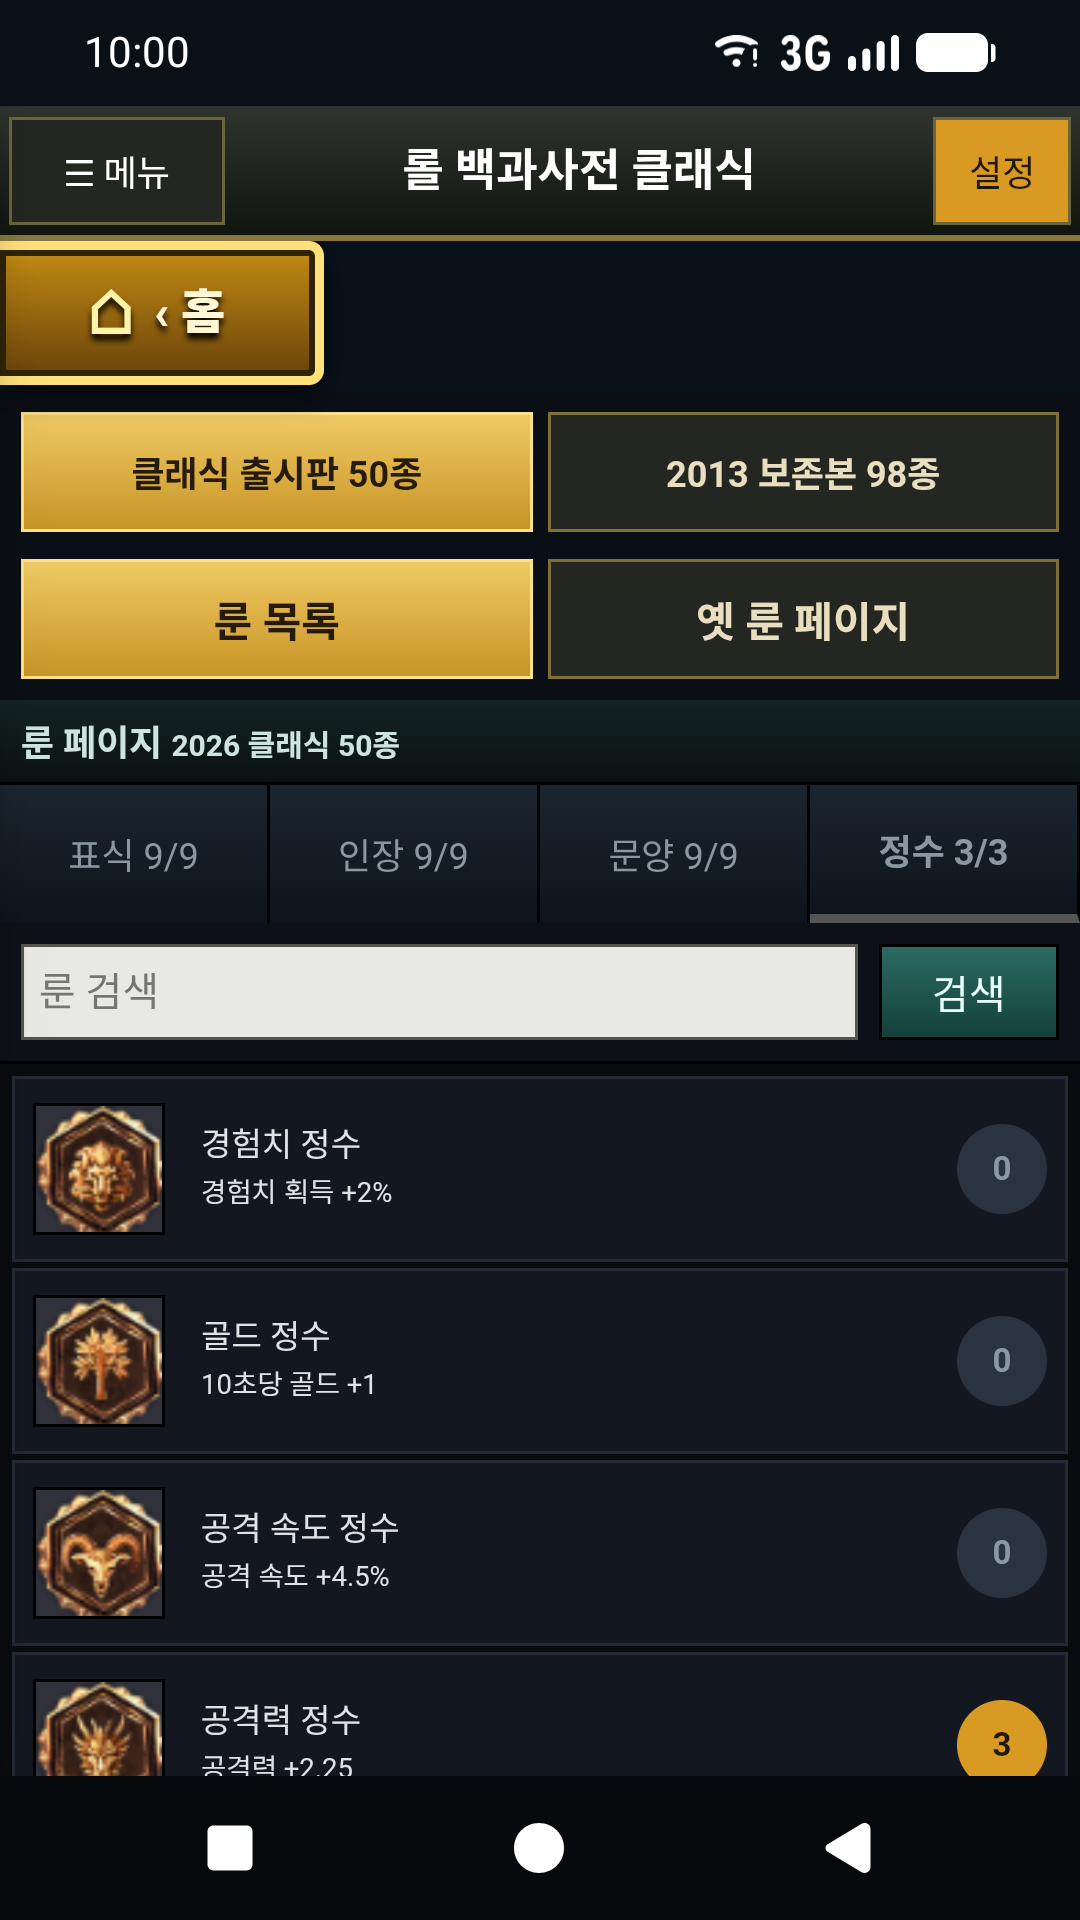
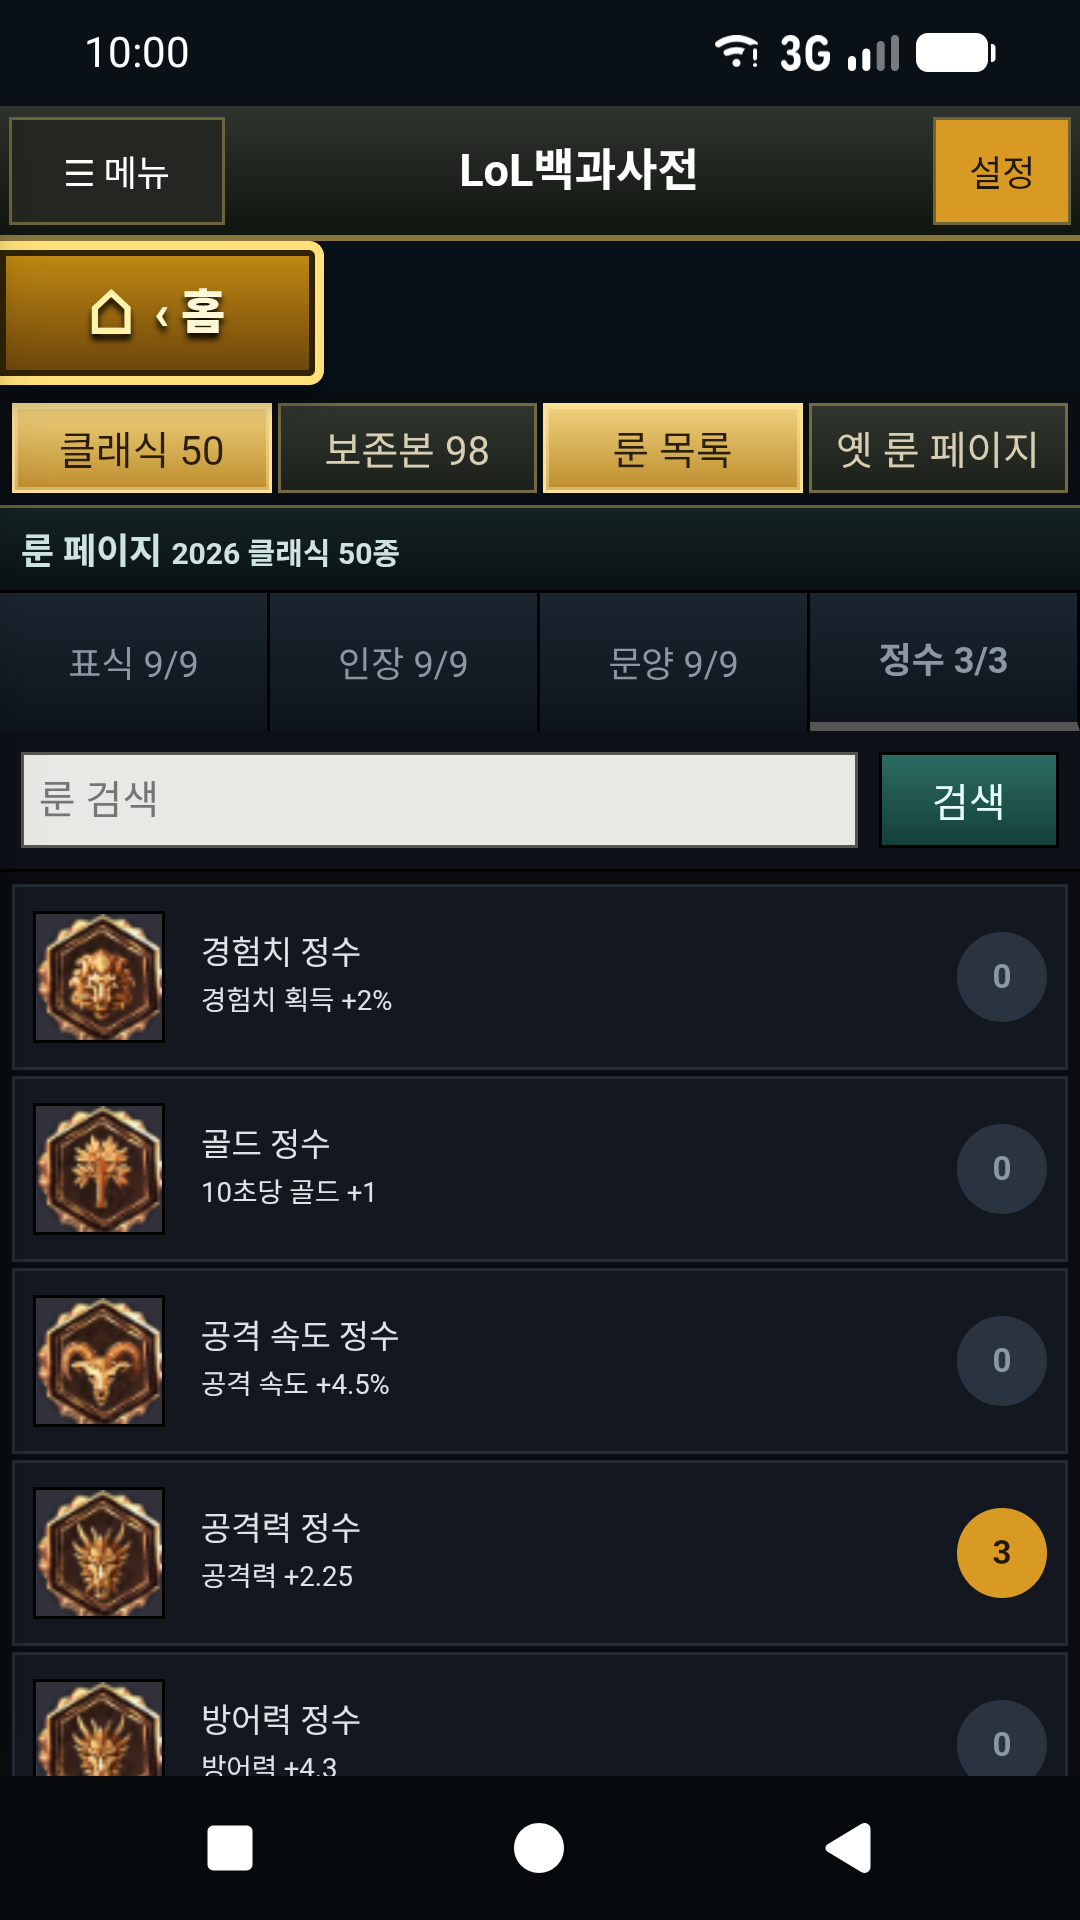
Publish 20-page rune client release evidence

diff --git a/index.html b/index.html
@@ -42,7 +42,7 @@
     <section class="hero">
       <div class="hero-copy">
         <a class="official-banner" href="https://www.leagueoflegends.com/ko-kr/classic/" rel="noreferrer">
-          Riot Games 공식 안내 · LoL 클래식 2026년 7월 30일 시작 예정
+          Riot Games 공식 안내 · LoL 클래식 2026년 7월 30일 시작
           <span aria-hidden="true">↗</span>
         </a>
         <p class="eyebrow">Android · 오프라인 · 비공식 아카이브</p>
@@ -90,7 +90,7 @@
         </div>
         <p>
           컴팩트 홈의 기기 내 통합 검색과 보존 소식부터 챔피언 상세, 아이템 조합식,
-          특성 투자, 5개 룬 페이지 편집까지 동작하는 오프라인 참고 앱입니다.
+          특성 투자, 20개 룬 페이지 편집까지 동작하는 오프라인 참고 앱입니다.
         </p>
       </div>
 
@@ -118,7 +118,7 @@
         <article class="feature-card">
           <span class="feature-number">05</span>
           <h3>옛 룬 클라이언트</h3>
-          <p>룬 보관함·30개 소켓 보드·통계를 3열로 구성하고, 9/9/9/3 편성을 5개 룬 페이지에 기기 내부 저장·초기화할 수 있습니다.</p>
+          <p>검색 가능한 실제 룬 보관함·30개 소켓 보드·통계를 3열로 구성하고, 9/9/9/3 편성을 20개 룬 페이지에 기기 내부 저장·초기화할 수 있습니다.</p>
         </article>
       </div>
     </section>
@@ -130,8 +130,9 @@
           <h2>출시 자료와 실제 앱을 함께 확인했습니다.</h2>
         </div>
         <p>
-          최종 캡처에 사용한 동일 빌드로 컴팩트 홈·기기 내 검색, 정확한 60명 초상,
-          5페이지 룬 클라이언트, 화면 이동과 오프라인 경계를 자동·수동으로 점검했습니다.
+          최종 캡처에 사용한 동일 빌드로 360·320px 컴팩트 홈과 기기 내 검색,
+          정확한 60명 초상, 20페이지 룬 클라이언트, 화면 이동과 오프라인 경계를
+          자동·수동으로 점검했습니다.
         </p>
       </div>
 
@@ -142,9 +143,9 @@
 
       <div class="qa-grid">
         <article class="qa-card">
-          <strong>39 / 39</strong>
+          <strong>40 / 40</strong>
           <span>Android 런타임 점검 통과</span>
-          <p>홈 검색·보존 소식, 60명 참조 초상, 30소켓·5페이지 룬 저장·초기화를 포함해 확인했습니다.</p>
+          <p>홈 검색·보존 소식, 60명 참조 초상, 30소켓·20페이지 룬 저장·초기화를 포함해 확인했습니다.</p>
         </article>
         <article class="qa-card">
           <strong>18 / 18</strong>
@@ -157,9 +158,9 @@
           <p>모두 1080×1920 RGB/sRGB PNG로 동일 빌드에서 캡처했습니다.</p>
         </article>
         <article class="qa-card">
-          <strong>360dp</strong>
+          <strong>320–360px</strong>
           <span>좁은 화면 회귀 점검</span>
-          <p>컴팩트 홈·5열 챔피언 초상·3열 룬 클라이언트와 아이템 좌·우 스크롤을 점검했습니다.</p>
+          <p>두 폭에서 컴팩트 홈·5열 초상·3열 룬과 아이템 좌·우 독립 스크롤의 겹침·가로 넘침이 없음을 확인했습니다.</p>
         </article>
       </div>
 
@@ -230,7 +231,7 @@
         </figure>
         <figure>
           <img src="assets/phone-08-rune-page.png" alt="룬 보관함·30개 소켓·통계가 3열로 배치된 옛 룬 페이지 화면" loading="lazy">
-          <figcaption><strong>옛 룬 클라이언트</strong><span>3열 · 30소켓 · 5페이지 저장</span></figcaption>
+          <figcaption><strong>옛 룬 클라이언트</strong><span>3열 · 30소켓 · 20페이지 저장</span></figcaption>
         </figure>
       </div>
     </section>
@@ -252,7 +253,7 @@
           <span class="status-badge complete">완료</span>
           <h3>앱과 배포 자료</h3>
           <ul class="check-list">
-            <li>기능 구현과 360dp 모바일 UI 회귀 수정</li>
+            <li>기능 구현과 320–360 CSS px 모바일 UI 회귀 수정</li>
             <li>Android Lint·JavaScript 구문·릴리스 정적 검사</li>
             <li>디버그 APK·번들 빌드와 에뮬레이터 런타임 점검</li>
             <li>스토어 설명·개인정보·Data safety·출시 체크리스트 초안</li>
@@ -339,7 +340,7 @@
         shared community features are roadmap items, not current services.
       </p>
       <p>
-        <strong>Working Android prototype.</strong>
+        <strong>Working Android release candidate.</strong>
         <strong>No production API key.</strong>
         Online accounts, Riot API integration, and shared community services are
         <strong>Roadmap, not current functionality.</strong>

diff --git a/README.md b/README.md
@@ -29,12 +29,13 @@
 - 컴팩트 홈에서 챔피언·아이템·룬·용어를 기기 안에서 통합 검색하고 보존 새소식·경기정보·기기 내 커뮤니티를 탐색
 - 클래식 클라이언트 참조 화면과 정확히 대조한 60명의 표시 순서·초상과 115명 역사 아카이브
 - 190개 아이템, 56개 특성, 16개 소환사 주문
-- 룬 보관함·30개 소켓·통계의 3열 옛 룬 클라이언트와 기기 내부에 저장되는 5개 룬 페이지
+- 검색 가능한 실제 룬 보관함·30개 소켓·통계의 3열 옛 룬 클라이언트와 기기 내부에 저장되는 20개 룬 페이지
 
-2026년 7월 29일 기준 내부 Android 런타임 점검은 39/39, 화면 경로 점검은
-18/18을 통과했습니다. 컴팩트 홈·기기 내 검색, 정확한 60명 초상,
-30소켓·5페이지 룬 편성 검증을 포함합니다. 이 수치는 LOLFLIX의 내부 검증 결과이며
-Riot Games 또는 Google의 인증을 의미하지 않습니다.
+2026년 7월 29일 기준 내부 Android 런타임 점검은 40/40, 화면 경로 점검은
+18/18을 통과했습니다. 360×556 및 320×494 CSS px에서 컴팩트 홈·기기 내 검색,
+정확한 60명 초상, 아이템 독립 2열 스크롤, 30소켓·20페이지 룬 편성 검증을
+포함합니다. 이 수치는 LOLFLIX의 내부 검증 결과이며 Riot Games 또는 Google의
+인증을 의미하지 않습니다.
 
 Google Play 조직 확인, 공개 지원 연락처, Play App Signing, 콘솔 선언,
 배포 권리 확인 및 심사 제출은 계정 소유자 또는 외부 권리자의 작업으로 남아 있습니다.
